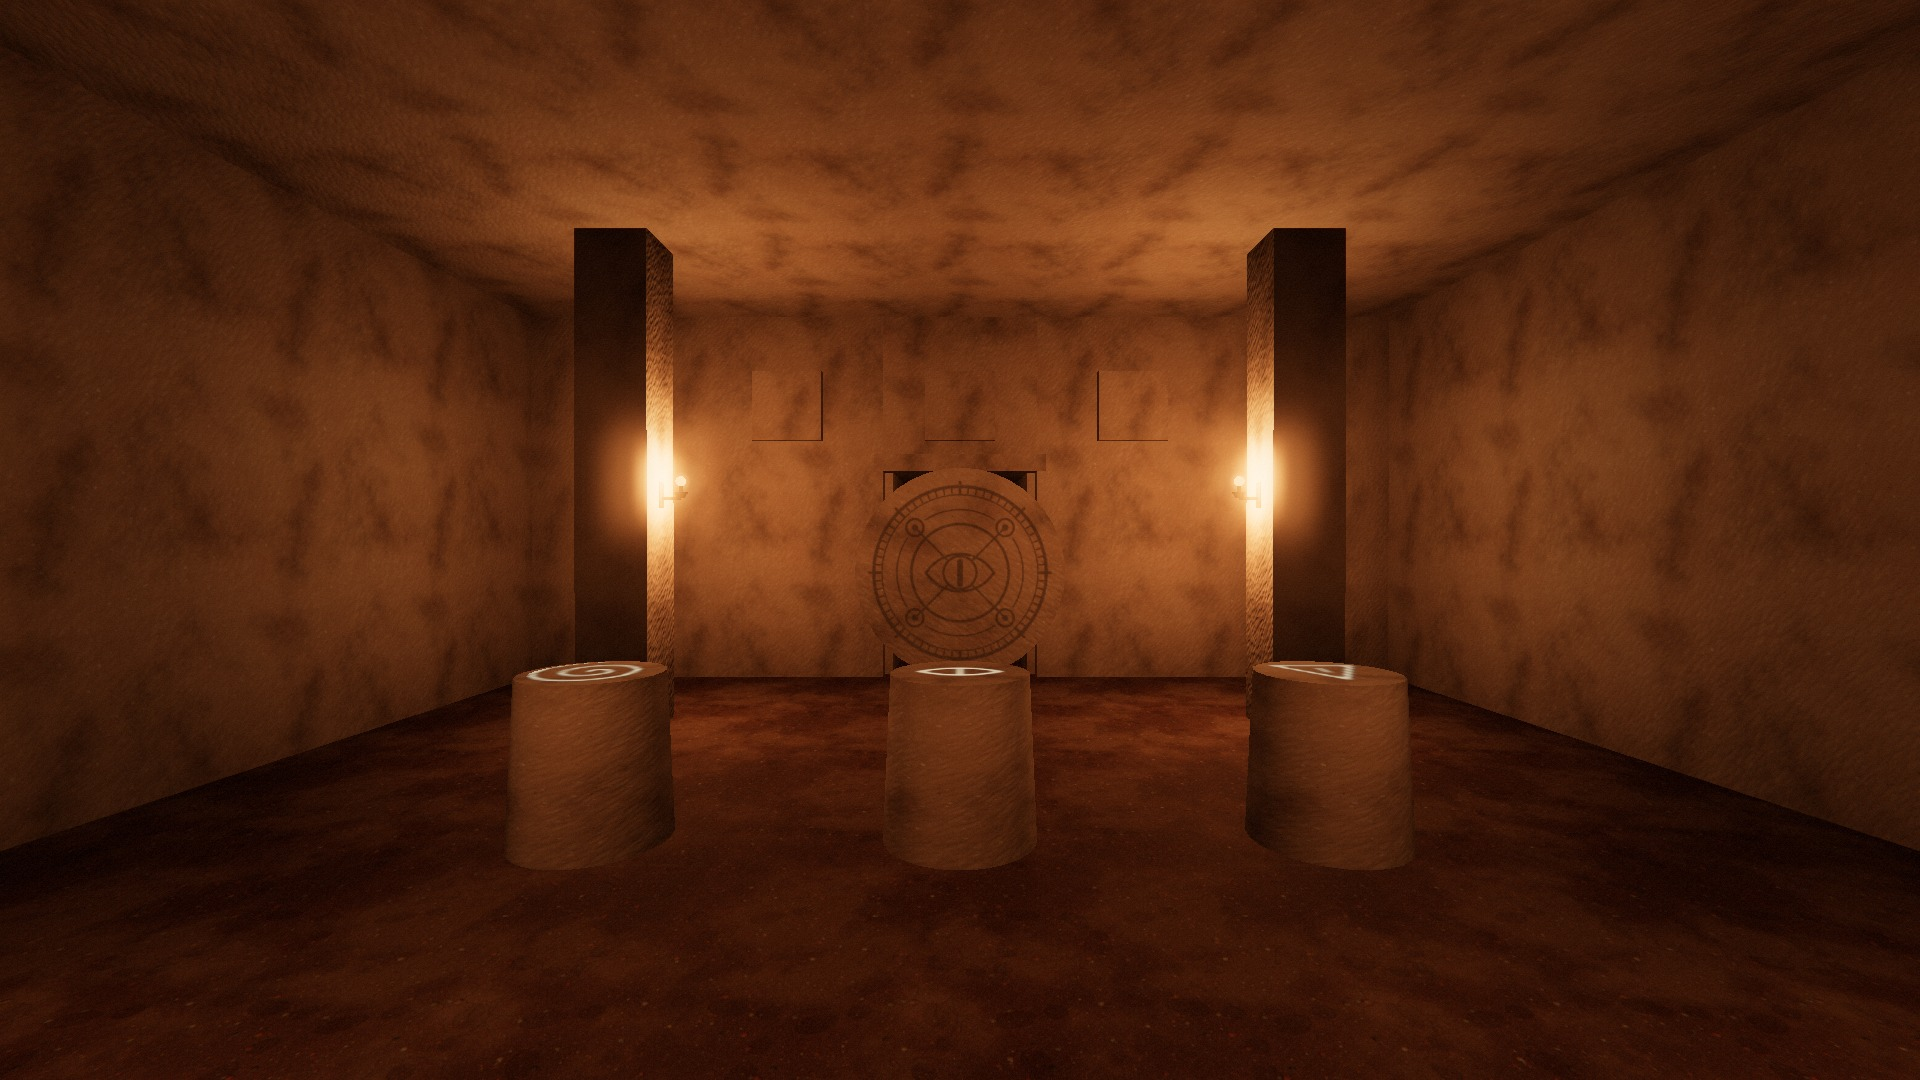
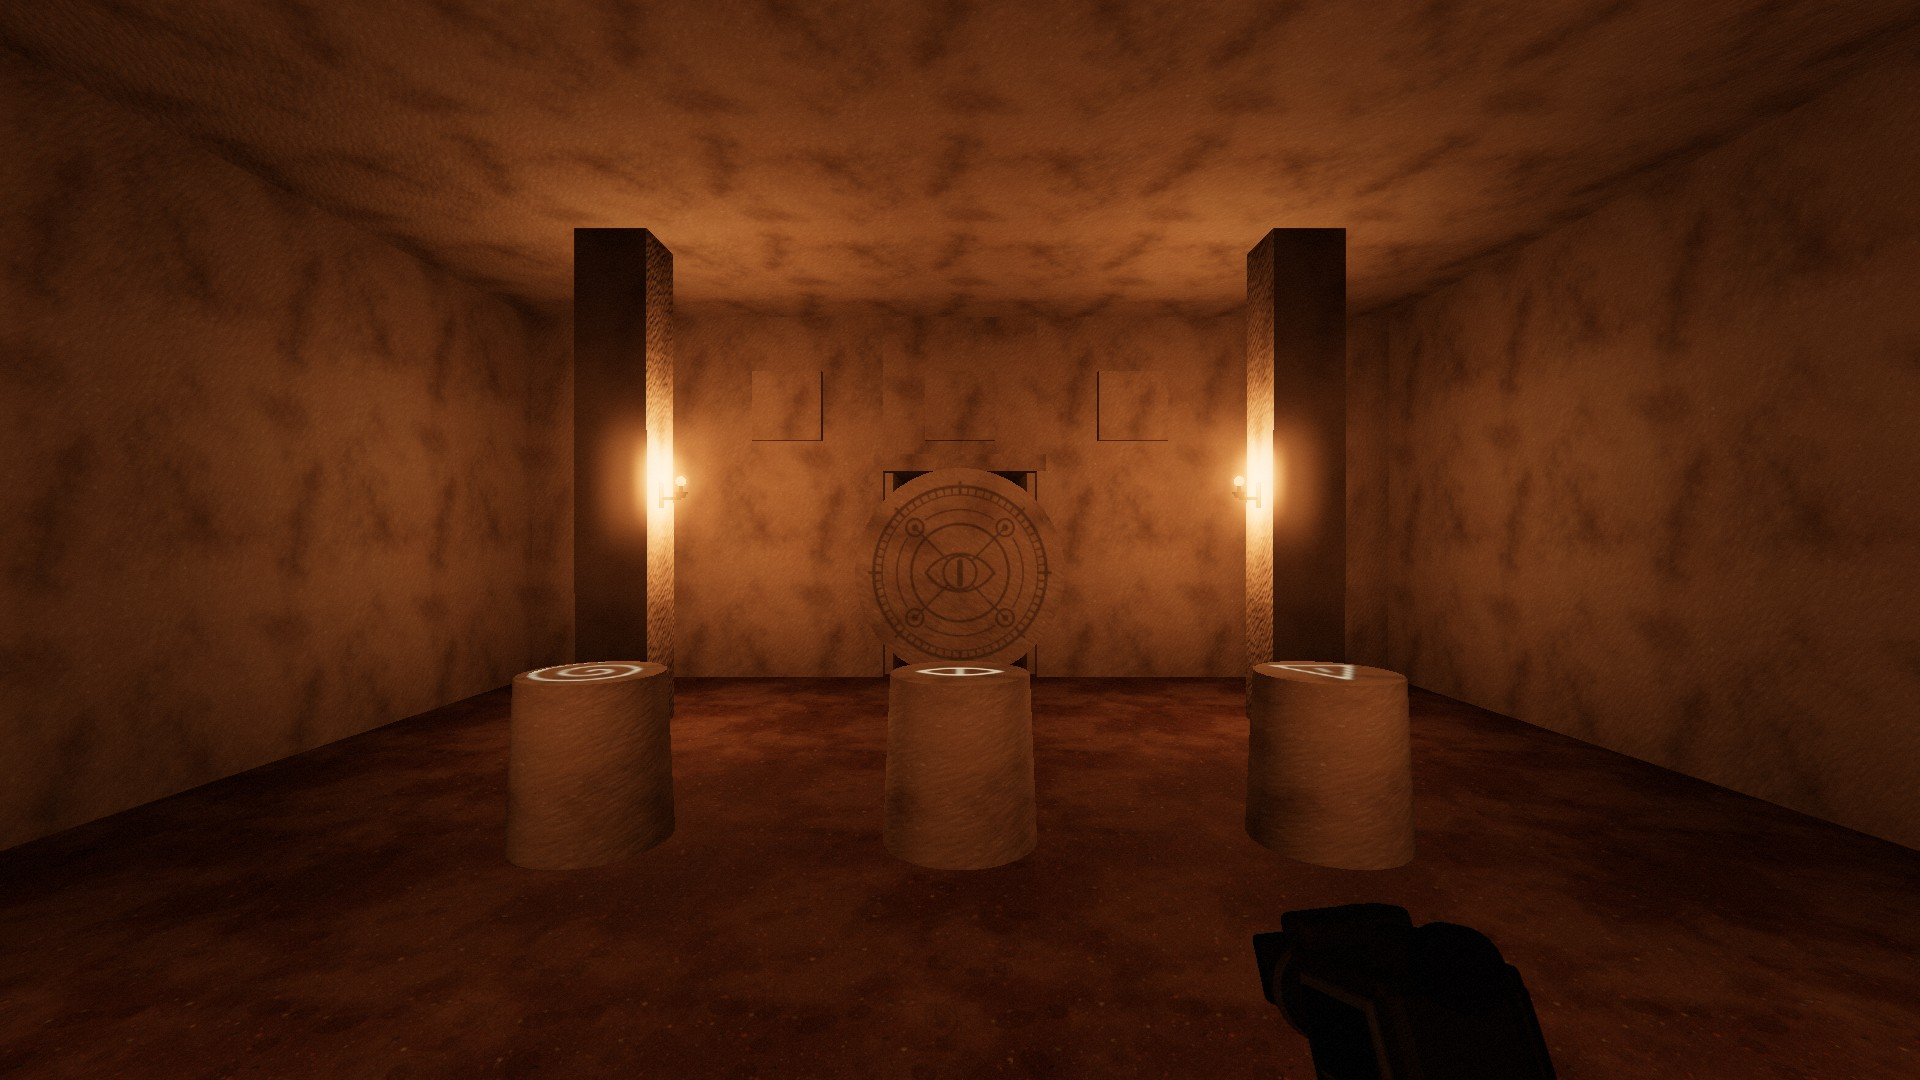
Store screenshots reshot from the current game, and the hand camcorder no longer turns grey near walls
- The torch moves to Ekin's left hand: the right holds the camcorder, and a bulb a few centimetres from it blew it out
- The camcorder view model gets a fixed faint sheen (Phong) instead of PBR specular: the torch's bounce light can sit a
  hand's width from it facing a wall, and PBR mirrored enough of it to turn black plastic pale grey
- capture.mjs: new s10 'behind you' shot; s03 without a figure cut off at the frame edge; s07 waits for the Copy's
  visible body (it shows where it was 1.5 s ago) to cross the doorway; key-art plates hide the camcorder in hand
- 10 store screenshots (1920x1080, English UI) from the current build; the two left over from the old s02/s05 scenes stay
  until the owner decides

Claude-Session: https://claude.ai/code/session_01MriZwxGTcVenJu5mcu6eKQ

Changed region(s): [[0.6562, 0.825, 0.8125, 1.0]]

diff --git a/DerinlikWeb/game.html b/DerinlikWeb/game.html
@@ -1664,7 +1664,8 @@ function ending(kind) {
 
 /* ================================================================ flashlight */
 const torch = new THREE.SpotLight(0xfff1dc, 9, 22, .52, .6, 1); // linear falloff: close walls don't blow out, far ones still read
-torch.position.set(.16, -.12, .05); torch.castShadow = true; torch.shadow.mapSize.set(1024, 1024); torch.shadow.bias = -.0004; torch.shadow.camera.near = .1;
+// in the left hand: the right one holds the camcorder, and a bulb beside it would blow it out
+torch.position.set(-.16, -.12, .05); torch.castShadow = true; torch.shadow.mapSize.set(1024, 1024); torch.shadow.bias = -.0004; torch.shadow.camera.near = .1;
 camera.add(torch); camera.add(torch.target); torch.target.position.set(0, -.05, -1); torch.visible = false;
 
 /* ================================================================ Blender props (optional) */
@@ -1687,9 +1688,12 @@ const handCam = { obj: null, k: 0 }; // k: 0 lowered .. 1 at the eye
 FX.on('init', () => {
   if (!MODELS.camcorder) return;
   const o = MODELS.camcorder.clone();
-  o.traverse((m) => { // the torch sits right beside it: no shadows from it, and darker plastic so the beam doesn't blow it out
+  o.traverse((m) => { // a view model: casts and takes no shadows, darker plastic so close lights don't blow it out
     if (!m.isMesh) return; m.castShadow = m.receiveShadow = false;
-    m.material = m.material.clone(); if (!m.material.emissiveIntensity || m.material.emissive.getHex() === 0) m.material.color.multiplyScalar(.35);
+    if (m.material.emissiveIntensity && m.material.emissive.getHex() !== 0) { m.material = m.material.clone(); return; } // the REC lamp
+    // a fixed, faint sheen instead of PBR's: the torch's bounce point can sit a hand's width away, and PBR mirrors 4% (more
+    // at a grazing angle) of a light that close whatever the colour, which turned the whole body pale grey near a wall
+    m.material = new THREE.MeshPhongMaterial({ color: m.material.color.clone().multiplyScalar(.35), map: m.material.map || null, specular: 0x161616, shininess: 24 });
   });
   o.scale.setScalar(.75); o.visible = false; camera.add(o); handCam.obj = o;
 });
@@ -1697,7 +1701,7 @@ FX.on('draw', (dt) => {
   const o = handCam.obj; if (!o) return;
   handCam.k += ((state.camRaised ? 1 : 0) - handCam.k) * Math.min(1, dt * 10);
   const k = handCam.k, sway = settings.bob ? 1 : 0, b = player.bob;
-  o.visible = state.started && !state.ended && player.enabled && !state.camRaised; // the camcorder never films itself; lowering it brings it back down from the eye
+  o.visible = state.started && !state.ended && player.enabled && !state.camRaised && !DEBUG.noViewModel; // the camcorder never films itself; lowering it brings it back down from the eye
   o.position.set(.17 - k * .13 + Math.sin(b * .5) * .006 * sway, -.205 + k * .16 - Math.abs(Math.cos(b * .5)) * .008 * sway, -.28 + k * .12);
   o.rotation.set(-.38 + k * .38, -.06 + k * .06, .1 * (1 - k) + Math.sin(b * .5) * .015 * sway);
 });

diff --git a/DerinlikSteam/README.md b/DerinlikSteam/README.md
@@ -38,7 +38,10 @@ yayınlamak senin kararın ve senin hesabınla olur. Tarihler ve kurallar Steamw
 - [x] Masaüstü kabuğu (Electron) ve Windows paketi (`release/win-unpacked/Derinlik.exe`) → `DerinlikDesktop/`
 - [x] Mağaza ve kütüphane görselleri, Steam'in istediği ölçülerde → `art/` (başlık, küçük, ana, dikey kapsül, sayfa
       arka planı, kütüphane kapsülü/başlığı/hero, saydam logo, topluluk simgesi)
-- [x] 9 ekran görüntüsü, 1920×1080 → `screenshots/` (Kola'nın ikisi, o bölümün gerçekçilik geçişinden sonra yeniden çekilecek)
+- [x] 10 ekran görüntüsü, 1920×1080, oyunun güncel hâlinden (elde kamera, dallanan hikâye, İngilizce arayüz) → `screenshots/s01…s10`;
+      yeniden üretmek için `node tools/capture.mjs DerinlikWeb/dist/offline/index.html DerinlikSteam` (PNG yazar; JPG'ye çevirip koy).
+      `s02_sakarya_sigil_camcorder.jpg` ve `s05_nevsehir_other_camcorder.jpg` eski sürümden kaldı (o sahneler değişti): silinmesi senin onayınla.
+      Kola'nın ikisi, o bölümün gerçekçilik geçişinden sonra yeniden çekilecek.
 - [x] Steam Next Fest demosu: yalnızca Sakarya bölümü, sonunda istek listesi çağrısı ve oyuncunun kaseti → `DerinlikWeb/build.py --offline --demo --out dist/demo/index.html`. Steamworks'te ayrı bir "Demo" uygulaması olarak yüklenir (ana oyunun sayfasına bağlanır, ayrı ücret yok).
 - [ ] Fragman (zorunlu değil, Steam "ideal olarak" istiyor) → `tools/trailer.mjs` + `tools/soundtrack.py` (hazırlanıyor)
 
